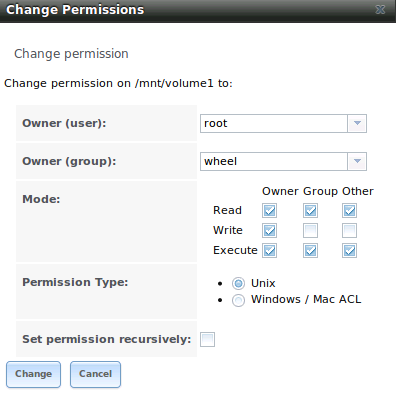
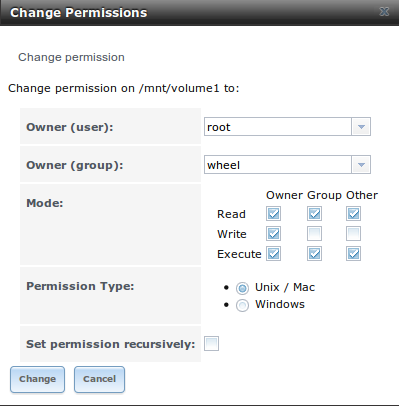
Add final version of 9.2.1.8 Errata. The HTML needs to be added separately.
Former-commit-id: 0bed954f54eb2a76d5381ab8641d39f720630683

diff --git a/docs/userguide/errata/9.2.1.8_errata.rst b/docs/userguide/errata/9.2.1.8_errata.rst
@@ -20,7 +20,7 @@ Several items have changed since 9.2.1 due to various bug fixes. There were eigh
 
 * 9.2.1.7 fixed `this list of bugs <https://bugs.freenas.org/projects/freenas/issues?query_id=87>`_, and
 
-* 9.2.1.8 fixed this list of bugs.
+* 9.2.1.8 fixed `this list of bugs <https://bugs.freenas.org/projects/freenas/issues?query_id=91>`_.
 
 This Errata provides a listing of screens and features that differ from the 9.2.1 Users Guide. It is organized by the names of the sections which have changed
 in numerical order.
@@ -28,12 +28,14 @@ in numerical order.
 Section 1.1 What's New Since 9.2.1
 ----------------------------------
 
-* Samba has been updated to `version 4.1.11 <http://www.samba.org/samba/history/samba-4.1.11.html>`_ which addresses
-  `this security vulnerability <http://www.samba.org/samba/security/CVE-2014-3560>`_.
+* Incorporates all of the `security releases <http://www.freebsd.org/security/advisories.html>`_ issued since FreeBSD 9.2 RELEASE.
+
+* `Shellshock security vulnerability in 
+  bash <https://securityblog.redhat.com/2014/09/24/bash-specially-crafted-environment-variables-code-injection-attack/>`_ proactively closed.
+
+* Samba has been updated to `version 4.1.12 <http://www.samba.org/samba/history/samba-4.1.12.html>`_.
 
 * Netatalk upgraded to `version 3.1.2 <http://netatalk.sourceforge.net/3.1/ReleaseNotes3.1.2.html>`_.
-
-* Pre-made VMDK images are now available from the FreeNAS® download page.
 
 * :file:`*.usb` files are now available from the FreeNAS® download page. These files can be either burned to CD (like an .iso file) or written directly to USB
   (like an .img file).
@@ -49,18 +51,22 @@ Section 1.1 What's New Since 9.2.1
 
 * A "Share type" drop-down menu has been added to the :menuselection:`Storage -> Volumes --> Create ZFS Dataset` screen.
 
+* The "Permission Type" in the Change Permissions screen has changed to *Unix / Mac* and
+  *Windows*.
+
 * The "Database Path" field has been removed from the :menuselection:`Sharing --> Apple (AFP) Shares --> Add Apple (AFP) Share` screen and added to the
   :menuselection:`Services --> AFP screen`.
 
 * The "Apply Default Permissions" checkbox has been added to :menuselection:`Sharing --> Windows (CIFS) Shares --> Add Windows (CIFS) Share`.
 
-* The "Use syslog", "Server minimum protocol", "Server maximum protocol", and "Allow execute always" fields have been added to
+* The "Use syslog", "Server minimum protocol", "Server maximum protocol", "Allow execute always", and "Bind IP Addresses" fields have been added to
   :menuselection:`Services --> CIFS`. The "Authentication Model" field has been removed as *Anonymous* is not a valid setting for Samba4. Instead,
-  *Local User* is used unless the system is joined to an Active Directory domain. The "EA Support" and "Support DOS File Attributes" fields have been removed
-  as they are deprecated in Samba4. 
+  *Local User* is used unless the system is joined to an Active Directory domain. The "EA Support" and "Support DOS File Attributes" fields have been removed.
+
+* The "Windbind NSS Info" field has been added to :menuselection:`Services --> Directory Services --> Active Directory`.
 
 * The location of the SSL certificate of the LDAP server can now be browsed to in the "Self signed certificate" field of 
-  :menuselection:`Services --> Directory Services --> LDAP`.
+  :menuselection:`Services --> Directory Services --> LDAP`. 
 
 * The "Enable experimental target" checkbox has been added to :menuselection:`Services --> iSCSI --> Target Global Configuration`. This allows beta testers to
   use the experimental kernel iSCSI which adds support for Windows 2012 clustering. Checking this box requires the system to be rebooted. 
@@ -83,13 +89,6 @@ FreeNAS® 9.2.1.8 can be downloaded from the `download page of the FreeNAS® web
 
 * **USB Image:** this file ends in a :file:`.usb` extension and can either be written to CDROM as described in Installing from CDROM or written to a USB
   device as described in Burning an IMG File.
-
-Section 2.2.1.1: Creating the Virtual Machine
----------------------------------------------
-
-* **VMDK:** select this option if you downloaded the the :file:`.vmdk.xz` file. This file must first be decompressed using :command:`xzcat` or
-  `7-Zip <http://www.7-zip.org/download.html>`_ so that it ends in a :file:`.vmdk` extension. This option can also be used when a :file:`.img` file is
-  converted to VMDK format using the instructions in Running FreeNAS® from a USB Image.
 
 Section 2.3: Installing from CDROM
 ----------------------------------
@@ -230,7 +229,7 @@ Add extra entry to **Table 6.3d: ZFS Dataset Options**:
 +===================+==================+=========================================================================================================+
 | Share type        | drop-down menu   | select the type of share that will be used on the dataset; choices are *UNIX* for an NFS share,         |
 |                   |                  | *Windows* for a CIFS share, or                                                                          |
-|                   |                  | *Mac* for an AFP share                                                                                  |
+|                   |                  | *Apple* for an AFP share                                                                                |
 |                   |                  |                                                                                                         |
 +-------------------+------------------+---------------------------------------------------------------------------------------------------------+
 
@@ -369,6 +368,9 @@ Add these entries to **Table 8.3a: CIFS Configuration Options**:
 | Allow execute     | checkbox         | if checked, Samba will allow the user to execute a file, even if that user's permissions are not set to |
 | always            |                  | execute                                                                                                 |
 +-------------------+------------------+---------------------------------------------------------------------------------------------------------+
+| Bind IP Addresses | checkbox(es)     | used to specify which IP address(es) the CIFS service will listen on                                    |
+|                   |                  |                                                                                                         |
++-------------------+------------------+---------------------------------------------------------------------------------------------------------+
 
 Add new table:
 
@@ -434,6 +436,21 @@ Do not use :command:`chmod` to attempt to fix the permissions on a CIFS share as
 share is to manage the share security from a Windows system as either the owner of the share or a member of the group the share is owned by. To do so,
 right-click on the share, click "Properties" and navigate to the "Security" tab. If you already destroyed the ACLs using :command:`chmod`,
 :command:`winacl` can be used to fix them. Type :command:`winacl` from "Shell" for usage instructions.
+
+Section 8.4.1: Active Directory
+-------------------------------
+
+Add the following entry to **Table 8.4a: Active Directory Configuration Options**:
+
++-------------------+------------------+---------------------------------------------------------------------------------------------------------+
+| **Setting**       | **Value**        | **Description**                                                                                         |
+|                   |                  |                                                                                                         |
++===================+==================+=========================================================================================================+
+| Windbind NSS Info | drop-down menu   | select the service for retrieving the user's home directory and login shell; choices are use *sfu*      |
+|                   |                  | (Services for Unix, version 3.x), *sfu20* (Services for Unix, version 2.0), or                          |
+|                   |                  | *rfc2307* (use LDAP)                                                                                    |
+|                   |                  |                                                                                                         |
++-------------------+------------------+---------------------------------------------------------------------------------------------------------+
 
 Section 8.7.5: Target Global Configuration
 ------------------------------------------
